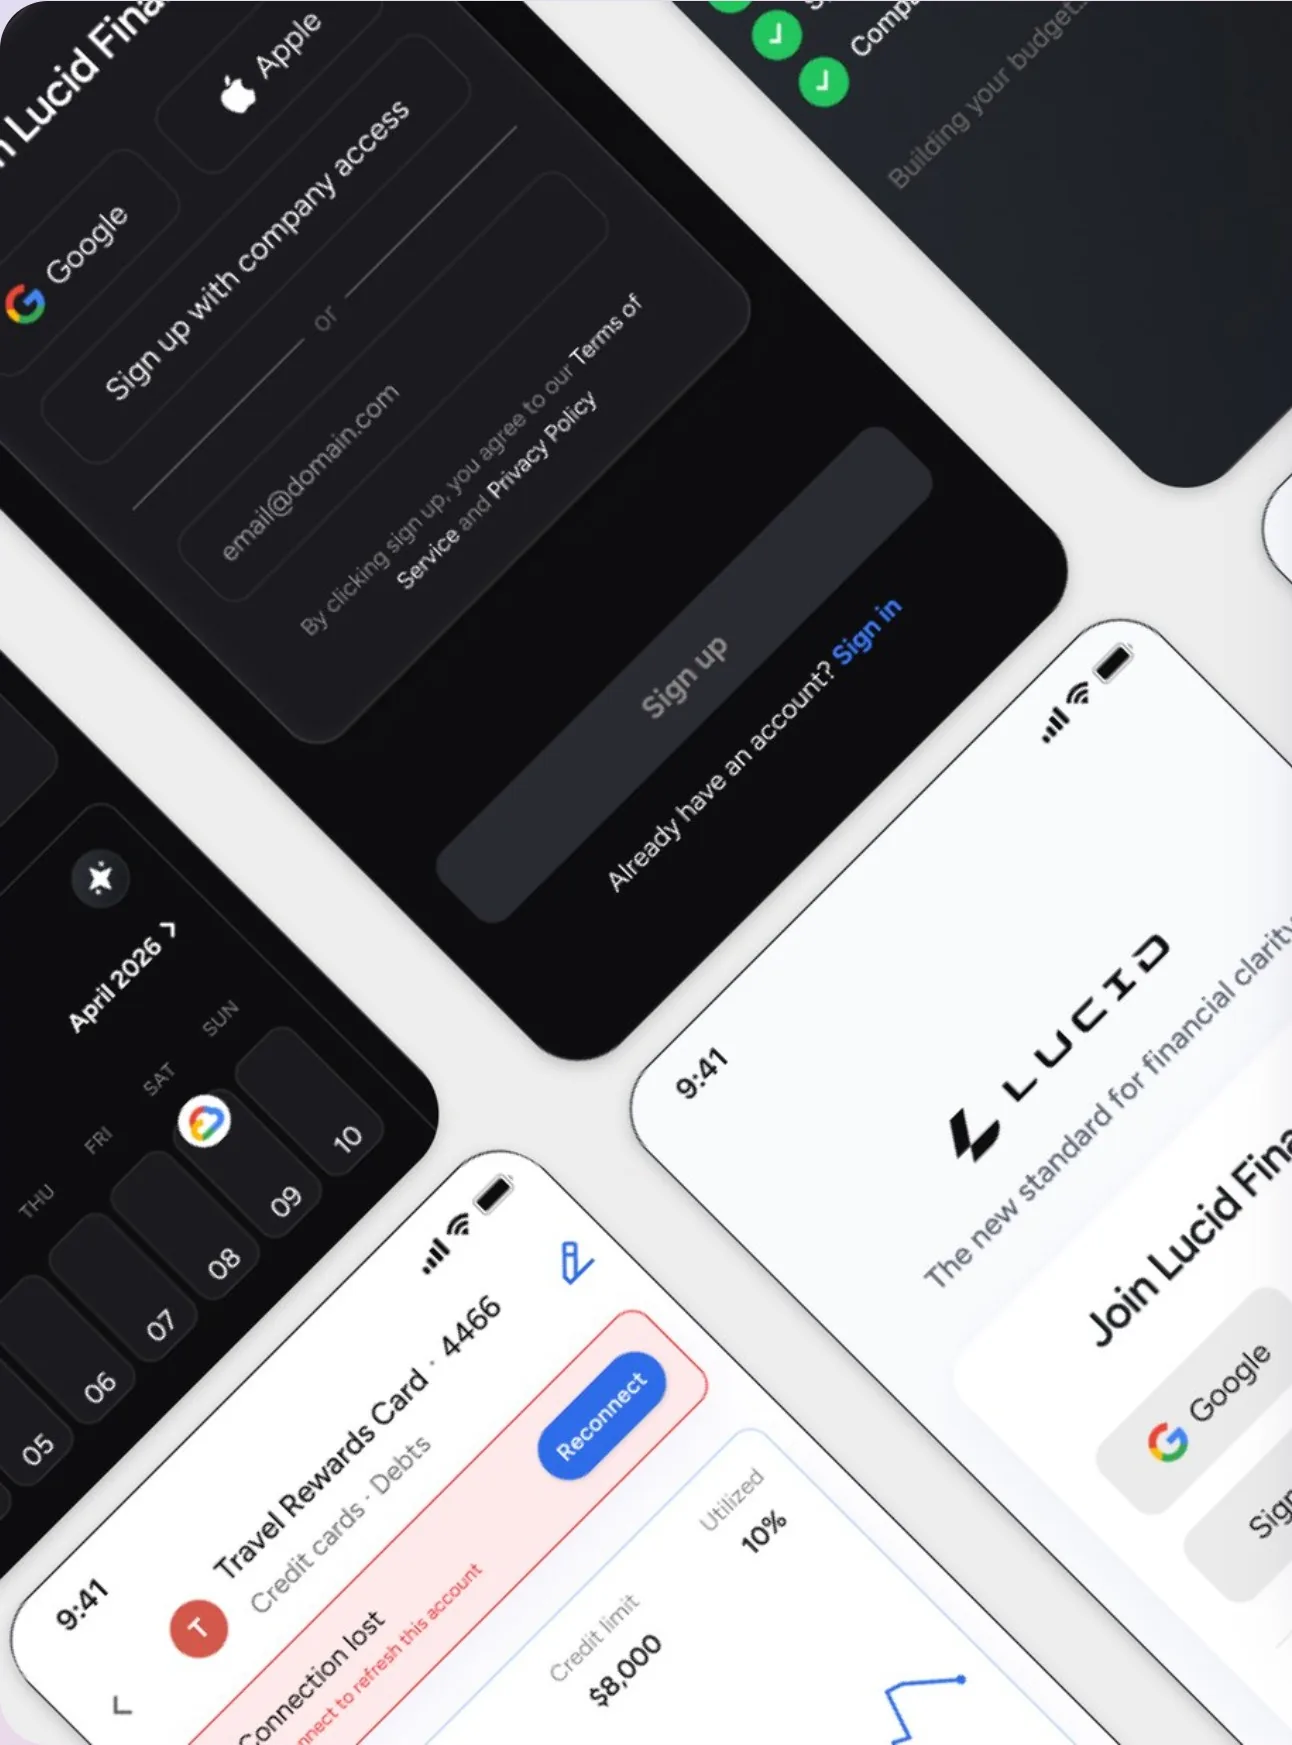
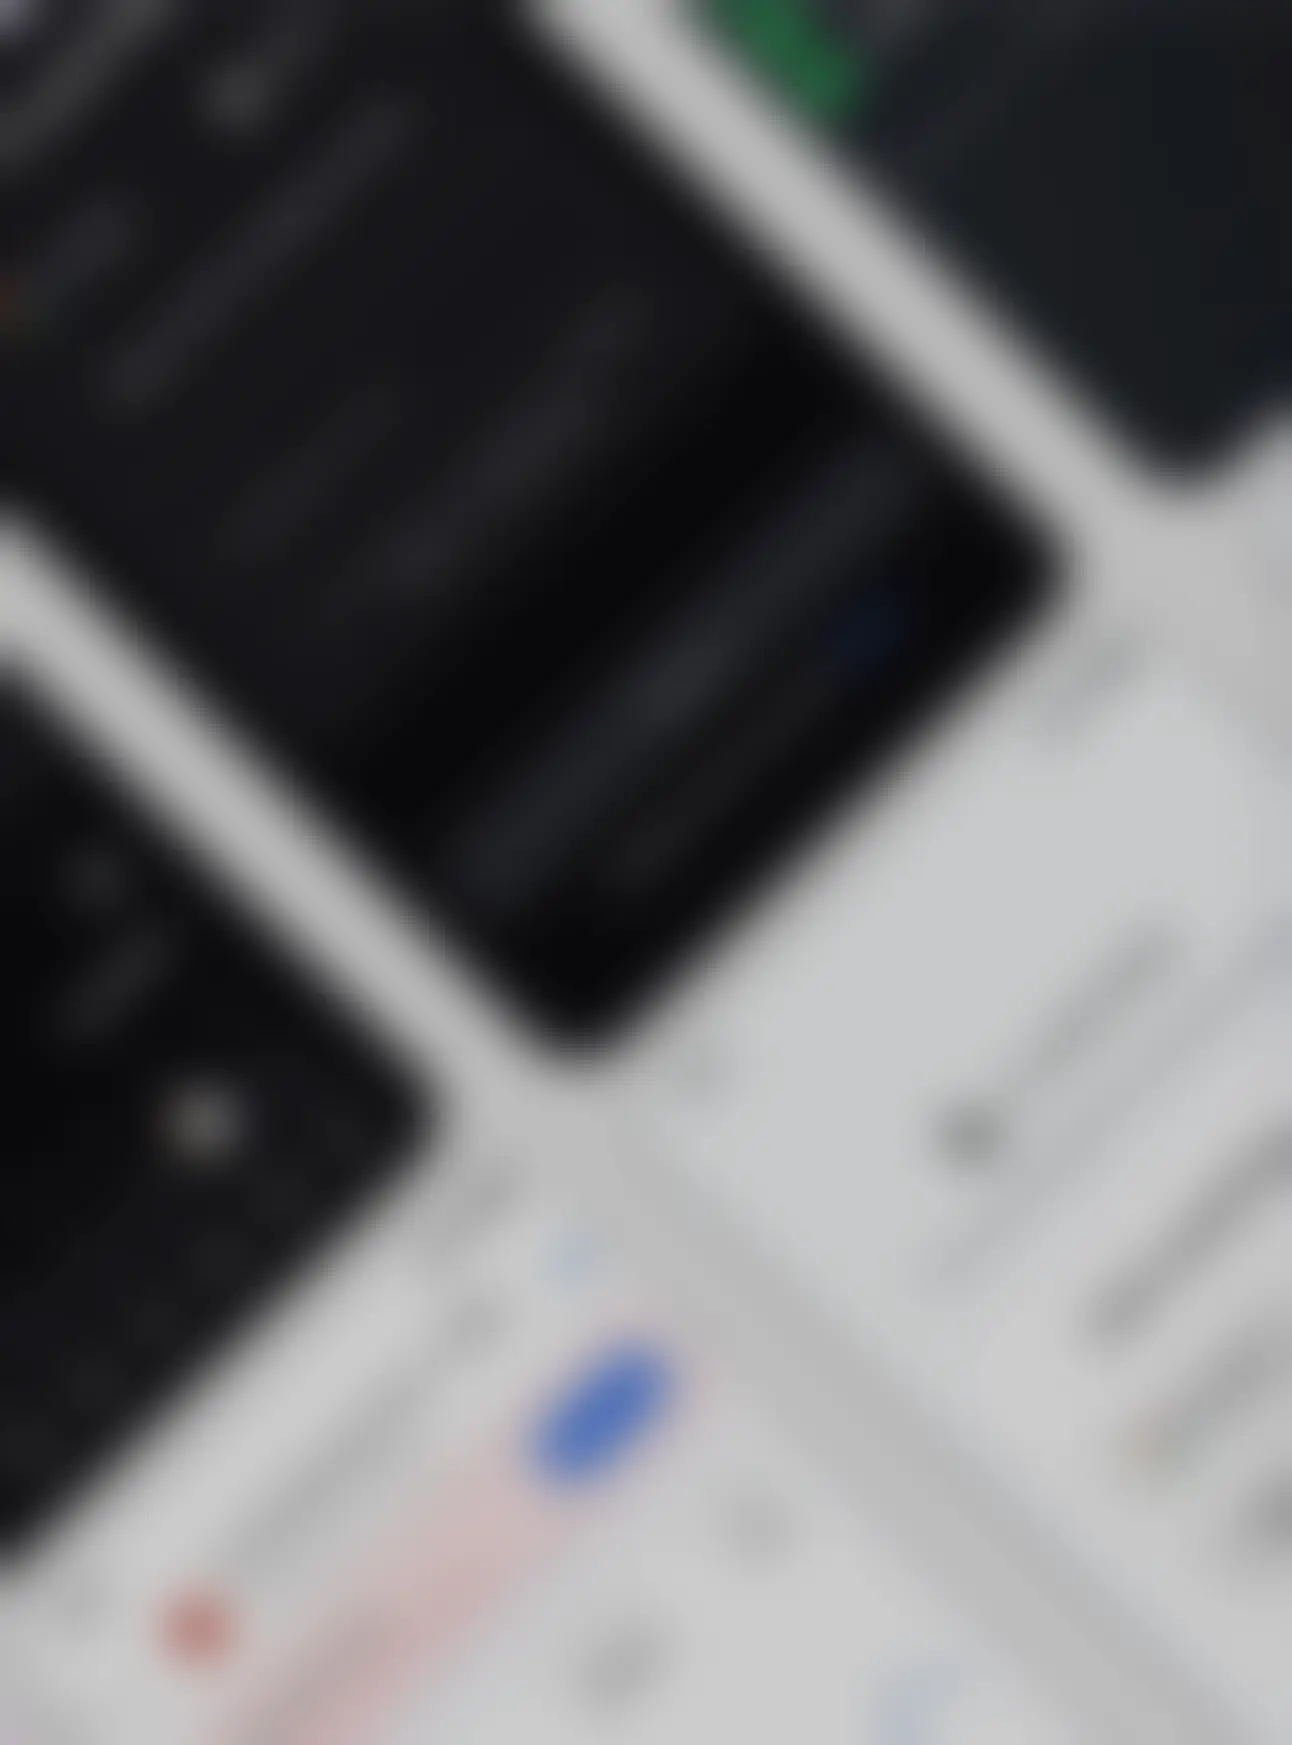
Frost Lucid case-study images under NDA with walkthrough request
Claude-Session: https://claude.ai/code/session_012DA6SvqzBPumxmUdtu7Wov

diff --git a/index.html b/index.html
@@ -399,6 +399,7 @@ html.q-focus .card:not(:hover):not(:focus-visible) .card-art,html.q-focus .pg:no
 .rmode .rm-i::after{display:none}.rmode .rm-i[aria-checked="true"]{border-color:var(--accent);color:var(--accent);box-shadow:0 0 0 2px rgba(159,196,201,.25);background:var(--bg-0)}
 .pg .kick{margin:14px 6px 0}.pg h3{margin:6px 6px 0}.pg .pg-btn{margin:14px 6px 6px;align-self:flex-start}
 .inv-f{display:grid;gap:10px}.inv-f label{display:grid;gap:4px;font-size:13px;color:var(--text-dim)}.inv-f input,.inv-f textarea{font:inherit;font-size:14px;color:var(--text);background:var(--bg-0);border:1px solid var(--line-2);border-radius:10px;padding:9px 10px}.inv-f input:focus-visible,.inv-f textarea:focus-visible{outline:2px solid var(--accent);outline-offset:1px}.inv-a{display:flex;gap:10px;margin-top:4px}.inv{width:min(440px,calc(100vw - 32px))}
+.nda{position:relative;display:block}.nda img{display:block}.nda-tag{position:absolute;left:50%;top:50%;transform:translate(-50%,-50%);display:flex;align-items:center;gap:8px;white-space:nowrap;padding:9px 15px;border-radius:999px;background:rgba(22,22,24,.62);border:1px solid rgba(236,232,225,.25);-webkit-backdrop-filter:blur(10px);backdrop-filter:blur(10px);color:var(--text);text-decoration:none;font-weight:600;font-size:14px}.nda-tag span{color:var(--accent)}.nda-tag:focus-visible{outline:2px solid var(--accent);outline-offset:3px}@media (max-width:420px){.nda-tag{font-size:12px;padding:7px 11px}}
 /* field notes inside Hot takes */
 .takes-sub{display:flex;justify-content:space-between;align-items:baseline;gap:12px;flex-wrap:wrap;max-width:1000px;margin:40px 0 16px}
 .takes-sub h3{margin:0;font-size:22px}
@@ -1808,7 +1809,7 @@ dialog.case::backdrop{background:rgba(8,8,9,.7)}
               <div><dt class="mono">Users</dt><dd>Employees through a workplace benefit (B2B2E) and individuals (B2C)</dd></div>
             </dl>
           </div>
-          <figure class="cs-heroimg"><img src="cs/lucid-hero.webp" width="1292" height="1745" decoding="async" alt="Lucid Finance mobile screens: sign-up with company access, the Join Lucid Finance screen, a calendar view and a credit card account"></figure>
+          <figure class="cs-heroimg"><span class="nda"><img src="cs/lucid-hero.webp" width="1292" height="1745" decoding="async" alt="Lucid Finance mobile screens: sign-up with company access, the Join Lucid Finance screen, a calendar view and a credit card account"><a class="nda-tag" href="mailto:niranjan.yesha@gmail.com?subject=Lucid%20Finance%20walkthrough">🔒 Under NDA · <span>Walkthrough on request →</span></a></span></figure>
         </div>
         <div class="cs-glance">
           <p class="cs-tldr"><span class="mono">In one line</span>I turned five separate features into one financial system members can understand, inspect and control. The AI proposes; the member decides.</p>
@@ -1851,7 +1852,7 @@ dialog.case::backdrop{background:rgba(8,8,9,.7)}
         </div>
         <blockquote class="cs-quote cs-hmw"><span class="mono">The question</span>How do we help people who don't want to learn finance see where they stand and act on it, <b>while they stay in charge, not the AI?</b></blockquote>
         <figure class="cs-fig">
-          <button class="zoom" data-full="cs/lucid-screens-grid.webp" data-title="Putting goals, data, AI and limits on one map"><img src="cs/lucid-screens-grid.webp" width="1030" height="801" loading="lazy" alt="Twelve dark Lucid Finance screens laid out as one experience model"><span class="zl mono">Expand</span></button>
+          <button class="zoom" data-full="cs/lucid-screens-grid.webp" data-title="Putting goals, data, AI and limits on one map"><span class="nda"><img src="cs/lucid-screens-grid.webp" width="1030" height="801" loading="lazy" alt="Twelve dark Lucid Finance screens laid out as one experience model"><a class="nda-tag" href="mailto:niranjan.yesha@gmail.com?subject=Lucid%20Finance%20walkthrough">🔒 Under NDA · <span>Walkthrough on request →</span></a></span><span class="zl mono">Expand</span></button>
           <figcaption>Putting goals, data, AI and limits on one map.</figcaption>
         </figure>
         <p class="cs-callout cs-hook">Everything was already built. So which part should people see first? To answer that, I had to learn what people actually trust. <span class="mono">Next: Research ↓</span></p>
@@ -1909,11 +1910,11 @@ dialog.case::backdrop{background:rgba(8,8,9,.7)}
           <li><span class="mono">P3</span><div><b>AI proposes, never quietly executes.</b><p>Every action that changes money passes a confirmation gate.</p></div></li>
         </ol>
         <figure class="cs-fig">
-          <button class="zoom" data-full="cs/lucid-architecture.webp" data-title="Product architecture"><img src="cs/lucid-architecture.webp" width="1592" height="1123" loading="lazy" alt="Lucid Finance user flow architecture: entry and authentication, main tabs for Home, Spend, Invest, Future, AI and Settings, and monetization"><span class="zl mono">Expand</span></button>
+          <button class="zoom" data-full="cs/lucid-architecture.webp" data-title="Product architecture"><span class="nda"><img src="cs/lucid-architecture.webp" width="1592" height="1123" loading="lazy" alt="Lucid Finance user flow architecture: entry and authentication, main tabs for Home, Spend, Invest, Future, AI and Settings, and monetization"><a class="nda-tag" href="mailto:niranjan.yesha@gmail.com?subject=Lucid%20Finance%20walkthrough">🔒 Under NDA · <span>Walkthrough on request →</span></a></span><span class="zl mono">Expand</span></button>
           <figcaption>Product architecture: onboarding, Home, Spend, Invest, Future, AI, subscriptions and settings as one end-to-end flow.</figcaption>
         </figure>
         <div class="fig2">
-          <figure class="cs-fig"><button class="zoom" data-full="cs/lucid-wireframes.webp" data-title="Home and Spend wireframes"><img src="cs/lucid-wireframes.webp" width="1019" height="570" loading="lazy" alt="Wireframes of the Home and Spend screens"><span class="zl mono">Expand</span></button></figure>
+          <figure class="cs-fig"><button class="zoom" data-full="cs/lucid-wireframes.webp" data-title="Home and Spend wireframes"><span class="nda"><img src="cs/lucid-wireframes.webp" width="1019" height="570" loading="lazy" alt="Wireframes of the Home and Spend screens"><a class="nda-tag" href="mailto:niranjan.yesha@gmail.com?subject=Lucid%20Finance%20walkthrough">🔒 Under NDA · <span>Walkthrough on request →</span></a></span><span class="zl mono">Expand</span></button></figure>
           <div><span class="mono">Shared map</span><h3>One map for design and engineering</h3><p>Both teams worked from the same navigation architecture and wireframes, starting with Home and Spend.</p></div>
         </div>
       </section>
@@ -1940,7 +1941,7 @@ dialog.case::backdrop{background:rgba(8,8,9,.7)}
           </div>
           <div class="ba-foot"><b>Questions move to where they matter.</b><span><i class="ba-dot" aria-hidden="true"></i>A question asked in context</span></div>
           <div class="fig-legend">
-            <figure class="cs-fig"><img src="cs/lucid-onboarding.webp" width="1284" height="817" loading="lazy" alt="Three onboarding screens: income, household details, and a debt check with connected accounts"></figure>
+            <figure class="cs-fig"><span class="nda"><img src="cs/lucid-onboarding.webp" width="1284" height="817" loading="lazy" alt="Three onboarding screens: income, household details, and a debt check with connected accounts"><a class="nda-tag" href="mailto:niranjan.yesha@gmail.com?subject=Lucid%20Finance%20walkthrough">🔒 Under NDA · <span>Walkthrough on request →</span></a></span></figure>
             <ul class="legend">
               <li><b>Income</b> <span>sets the baseline</span></li>
               <li><b>Tax</b> <span>sharpens the estimates</span></li>
@@ -1962,7 +1963,7 @@ dialog.case::backdrop{background:rgba(8,8,9,.7)}
             <div><dt class="mono">Trade-off</dt><dd>Suggestions are only as strong as the member's connected-data coverage.</dd></div>
           </dl>
           <figure class="cs-fig">
-            <button class="zoom" data-full="cs/lucid-budget-flow.webp" data-title="Guided budgeting in five steps"><img src="cs/lucid-budget-flow.webp" width="2136" height="824" loading="lazy" alt="Five budgeting screens: choose how to build, Lucid reads your spending, review what it found, adjust the personalized budget, and the budget is live"><span class="zl mono">Expand</span></button>
+            <button class="zoom" data-full="cs/lucid-budget-flow.webp" data-title="Guided budgeting in five steps"><span class="nda"><img src="cs/lucid-budget-flow.webp" width="2136" height="824" loading="lazy" alt="Five budgeting screens: choose how to build, Lucid reads your spending, review what it found, adjust the personalized budget, and the budget is live"><a class="nda-tag" href="mailto:niranjan.yesha@gmail.com?subject=Lucid%20Finance%20walkthrough">🔒 Under NDA · <span>Walkthrough on request →</span></a></span><span class="zl mono">Expand</span></button>
             <ol class="steplabels"><li><span class="mono">1</span>Choose</li><li><span class="mono">2</span>Analyze</li><li><span class="mono">3</span>Review</li><li><span class="mono">4</span>Adjust</li><li><span class="mono">5</span>Confirm</li></ol>
           </figure>
           <ul class="chain" aria-label="Flow from financial history to a created budget">
@@ -2005,7 +2006,7 @@ dialog.case::backdrop{background:rgba(8,8,9,.7)}
             </div>
           </div>
           <figure class="cs-fig">
-            <button class="zoom" data-full="cs/lucid-ai-sequence.webp" data-title="Lucid AI agent architecture"><img src="cs/lucid-ai-sequence.webp" width="1272" height="953" loading="lazy" alt="Lucid AI agent architecture: an end-to-end sequence from the user through orchestration, data, the language model and a decision gate to the action layer"><span class="zl mono">Expand</span></button>
+            <button class="zoom" data-full="cs/lucid-ai-sequence.webp" data-title="Lucid AI agent architecture"><span class="nda"><img src="cs/lucid-ai-sequence.webp" width="1272" height="953" loading="lazy" alt="Lucid AI agent architecture: an end-to-end sequence from the user through orchestration, data, the language model and a decision gate to the action layer"><a class="nda-tag" href="mailto:niranjan.yesha@gmail.com?subject=Lucid%20Finance%20walkthrough">🔒 Under NDA · <span>Walkthrough on request →</span></a></span><span class="zl mono">Expand</span></button>
             <figcaption>Lucid AI agent architecture, end to end: every money-changing action stops at a confirmation step.</figcaption>
           </figure>
           <p class="dec-res"><i class="fdot" aria-hidden="true"></i><span>The AI could recommend the change. <strong>It couldn't quietly make it.</strong></span></p>
@@ -2024,7 +2025,7 @@ dialog.case::backdrop{background:rgba(8,8,9,.7)}
             <li>Tokens</li><li class="arr" aria-hidden="true"></li><li>Primitives</li><li class="arr" aria-hidden="true"></li><li>Components</li><li class="arr" aria-hidden="true"></li><li>Patterns</li><li class="arr" aria-hidden="true"></li><li class="end">Product screens</li>
           </ul>
           <figure class="cs-fig">
-            <button class="zoom" data-full="cs/lucid-design-system.webp" data-title="Design system in light and dark"><img src="cs/lucid-design-system.webp" width="2200" height="751" loading="lazy" alt="Design system components in light and dark themes: buttons, inputs, category badges, navigation items and cards"><span class="zl mono">Expand</span></button>
+            <button class="zoom" data-full="cs/lucid-design-system.webp" data-title="Design system in light and dark"><span class="nda"><img src="cs/lucid-design-system.webp" width="2200" height="751" loading="lazy" alt="Design system components in light and dark themes: buttons, inputs, category badges, navigation items and cards"><a class="nda-tag" href="mailto:niranjan.yesha@gmail.com?subject=Lucid%20Finance%20walkthrough">🔒 Under NDA · <span>Walkthrough on request →</span></a></span><span class="zl mono">Expand</span></button>
             <figcaption>200+ screens and states, one shared language in light and dark.</figcaption>
           </figure>
           <p class="dec-res"><i class="fdot" aria-hidden="true"></i><span>A design system isn't a style guide. <strong>It's a shared language between designers and engineers.</strong></span></p>
@@ -2045,7 +2046,7 @@ dialog.case::backdrop{background:rgba(8,8,9,.7)}
           <p class="smap-cap">Shared product state: one edit updates every place that depends on it.</p>
         </div>
         <figure class="cs-fig">
-          <button class="zoom" data-full="cs/lucid-catalogue.webp" data-title="Complete design catalogue"><img src="cs/lucid-catalogue.webp" width="1281" height="890" loading="lazy" alt="The complete Lucid Finance design catalogue: 200+ screens in light and dark themes"><span class="zl mono">Expand</span></button>
+          <button class="zoom" data-full="cs/lucid-catalogue.webp" data-title="Complete design catalogue"><span class="nda"><img src="cs/lucid-catalogue.webp" width="1281" height="890" loading="lazy" alt="The complete Lucid Finance design catalogue: 200+ screens in light and dark themes"><a class="nda-tag" href="mailto:niranjan.yesha@gmail.com?subject=Lucid%20Finance%20walkthrough">🔒 Under NDA · <span>Walkthrough on request →</span></a></span><span class="zl mono">Expand</span></button>
           <figcaption>The complete design catalogue: organized layers and artboards in light and dark themes.</figcaption>
         </figure>
         <p class="note"><b>Still in beta.</b> Post-release product results will be added once members are using Lucid.</p>
